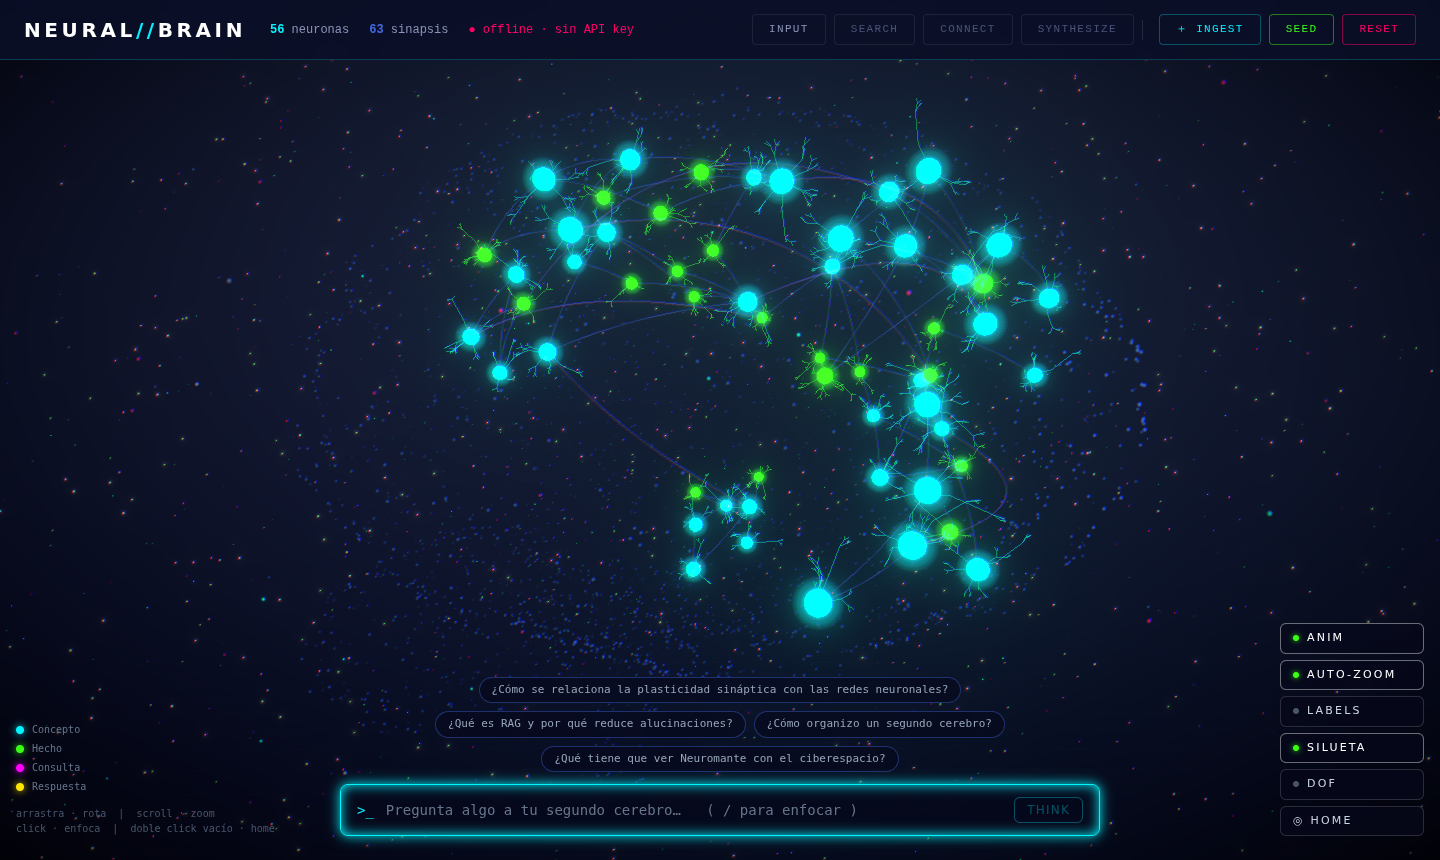
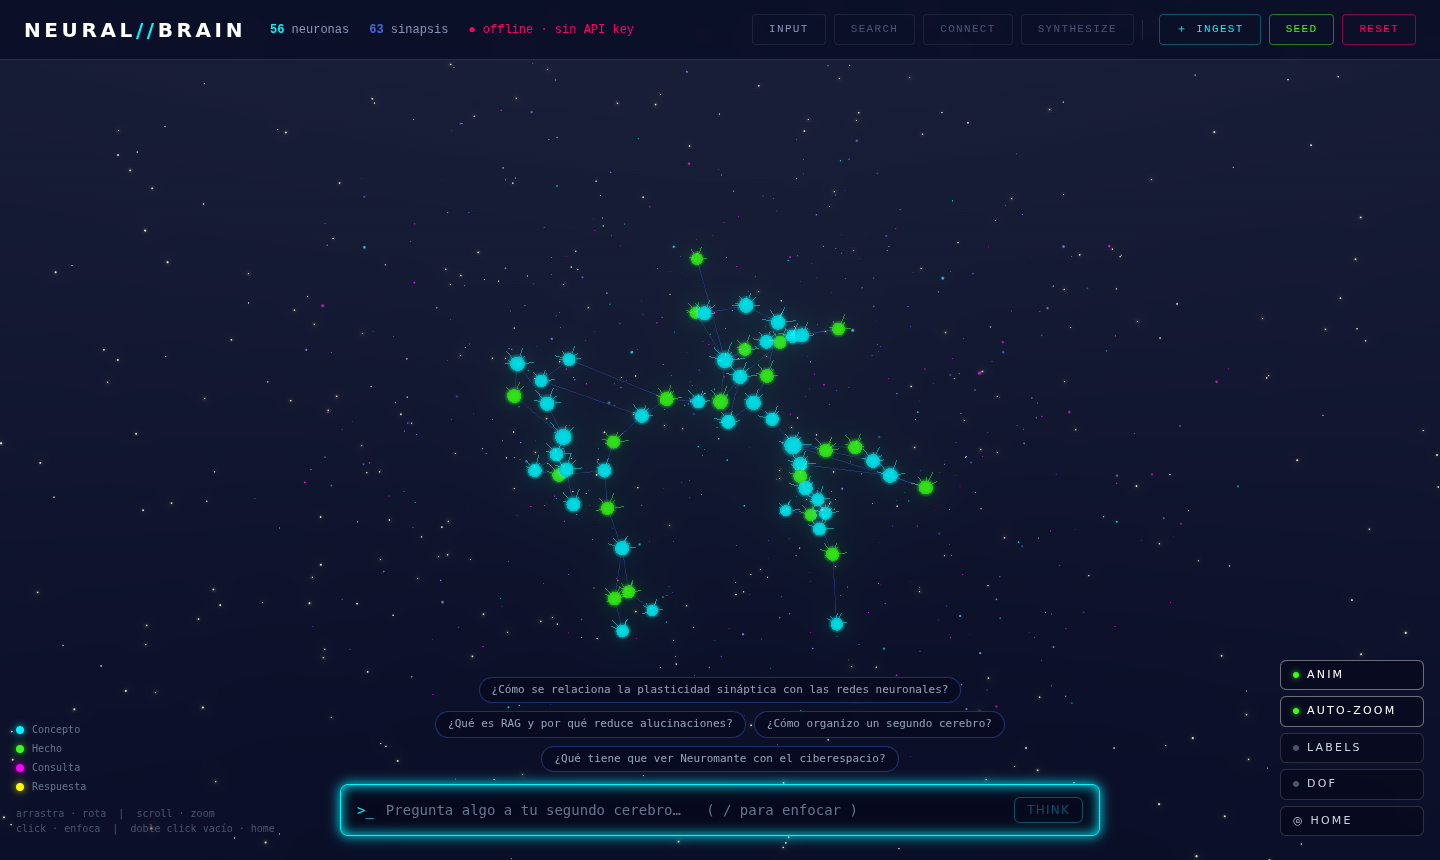
docs: describe the oval layout and the two visual states
Claude-Session: https://claude.ai/code/session_01FtnkjFZqhvsLejwne1Sczp

diff --git a/README.md b/README.md
@@ -19,7 +19,7 @@
 | 🧠 **Ingesta** | Cada nota se convierte en una **neurona**. Se enlaza por similitud semántica con las que ya existen, y cada *tag* crea (o refuerza) una **neurona-concepto** hub. |
 | 🔎 **RAG** | Una pregunta se embebe, se buscan los recuerdos más cercanos en ChromaDB y el grafo encuentra los **caminos** que los unen. Claude sintetiza la respuesta citando las fuentes `[n]`. |
 | ✨ **Visualización** | El proceso se emite por **SSE** fase a fase y el frontend lo anima: la consulta aparece, una onda escanea el cerebro, la corriente eléctrica recorre las sinapsis y la respuesta emerge en el centro. |
-| 🧬 **Forma de cerebro** | Las neuronas viven dentro de un cerebro humano: dos hemisferios, lóbulos frontal, parietal, temporal y occipital, cerebelo e hipocampo. Cada **área de conocimiento** (comunidad del grafo) ocupa una región, los conceptos están en la corteza y los hechos más adentro. |
+| 🧬 **Forma de cerebro** | Por defecto el grafo es un **cerebro aplanado visto desde arriba**: un óvalo denso en el centro y disperso en los bordes. Con `LAYOUT_MODE=brain` las neuronas viven dentro de un cerebro humano anatómico (hemisferios, lóbulos, cerebelo, hipocampo). |
 
 ![cerebro en reposo](docs/brain-idle.png)
 
@@ -71,22 +71,20 @@ cd frontend && npm install && npm run dev
 
 | Fase | Tiempo | Qué pasa en el backend | Qué ves |
 |---|---|---|---|
-| **INPUT** | 0–300 ms | llega la pregunta | la neurona magenta nace con un *burst* de partículas, escala `0 → 1.5 → 1.0` (elastic) y un destello que se apaga |
-| **SEARCH** | 300–800 ms | embedding + top‑k en ChromaDB → evento `search` | ondas concéntricas y un plano de escaneo recorren el grafo; las neuronas encontradas se encienden **progresivamente según su distancia**, con rayos de partículas desde la consulta |
-| **CONNECT** | 800–1500 ms | caminos más cortos entre los resultados → evento `connect` | las sinapsis del camino se vuelven blancas con una **corriente eléctrica** que las recorre, estelas de partículas y pulsos en **cascada** en las neuronas |
-| **SYNTHESIZE** | 1500–2000 ms | Claude genera en streaming → eventos `token` + `synthesize` | todas las neuronas activas laten sincronizadas, rayos convergen hacia la **neurona-respuesta** amarilla que emerge en el centro con una explosión suave |
+| **INPUT** | 0–300 ms | llega la pregunta | la neurona-consulta magenta (r = 0.8) aparece **encima** del grafo con un *burst* de partículas, escala `0 → 1.5 → 1.0` (elastic) y un destello que se apaga; la rotación se detiene |
+| **SEARCH** | 300–800 ms | embedding + top‑k en ChromaDB → evento `search` | 5–7 neuronas se encienden **progresivamente**, se vuelven **blancas** y crecen ×1.2–1.5; aparecen etiquetas con su **%**; haces blancos gruesos (r = 0.05) van de la consulta a cada una; el resto se oscurece al 30 %; la cámara hace **auto-zoom** al cluster y aparece una **nube azul/cian** a su alrededor |
+| **CONNECT** | 800–1500 ms | caminos más cortos entre los resultados → evento `connect` | las sinapsis entre neuronas activas se vuelven **tubos blancos gruesos** (r = 0.08) con una **corriente eléctrica** y partículas viajando; las chispas de las neuronas activas aumentan y parpadean |
+| **SYNTHESIZE** | 1500–2000 ms | Claude genera en streaming → eventos `token` + `synthesize` | la neurona más relevante se vuelve **amarilla** (#ffff00) y escala ×2; las demás activas convergen hacia ella; la nube brilla al máximo y hay una explosión suave de partículas |
 
-Cada fase empieza en *su* instante o cuando llegan los datos reales, lo que ocurra después: la animación nunca va por delante del razonamiento. Si Claude tarda, la fase CONNECT sigue viva hasta el primer token.
+Cada fase empieza en *su* instante o cuando llegan los datos reales, lo que ocurra después: la animación nunca va por delante del razonamiento. Si Claude tarda, la fase CONNECT sigue viva hasta el primer token. **2 s después** de la respuesta el cerebro vuelve al estado idle (el panel de respuesta sigue abierto) y la cámara regresa a la vista general.
 
-**Idle:** las neuronas (soma + dendritas + axón) respiran (`scale 1.0 ↔ 1.05`, ciclo 2 s), el cerebro rota lentamente, una silueta holográfica con un barrido de escaneo dibuja corteza, cerebelo y tronco encefálico, y flota polvo neuronal entre 5000 estrellas. Las fibras largas entre lóbulos o hemisferios (tipo cuerpo calloso) se arquean más y son violetas.
+**Idle:** óvalo aplanado de esferas brillantes simples (r 0.3–0.5), cian para conceptos y verde para hechos, cada una con 5–8 **chispas** cortas y un pulso sutil (`1.0 ↔ 1.03`). Sinapsis muy finas `#4169e1` al 15 % y sólo entre neuronas cercanas (< 8 unidades; las largas aparecen cuando transportan un pensamiento). Rotación lenta (0.3), polvo flotante, sin etiquetas ni efectos.
 
-**Durante la respuesta:** la cámara hace **auto-zoom** al cluster activo, cada neurona encontrada emite **anillos de pulso** y muestra una etiqueta con su **% de relevancia** respecto a la mejor coincidencia (la mejor = 100 %).
+**Interacción:** hover → glow + `scale 1.2` + etiqueta · click → vuelo suave de cámara + panel de info · arrastrar → rotar · botón derecho / dos dedos → **pan** · scroll → zoom (15–80) · doble click en el vacío → vista general · `/` o la pestaña `INPUT` enfocan el input · `Esc` cancela · `↑` recupera la última pregunta · las citas `[n]` de la respuesta son clicables.
 
-**Interacción:** hover → glow + `scale 1.2` + etiqueta · click → vuelo suave de cámara + panel de info · arrastrar → rotar · botón derecho / dos dedos → **pan** · scroll → zoom (10–100) · doble click en el vacío → vista general · `/` o la pestaña `INPUT` enfocan el input · `Esc` cancela · `↑` recupera la última pregunta · las citas `[n]` de la respuesta son clicables.
+**Panel de vista** (abajo a la derecha): `ANIM`, `AUTO-ZOOM`, `LABELS` (etiquetas de todos los conceptos), `SILUETA` (sólo en `LAYOUT_MODE=brain`), `DOF`, `HOME`. Las preferencias se recuerdan en el navegador.
 
-**Panel de vista** (abajo a la derecha): `ANIM`, `AUTO-ZOOM`, `LABELS` (etiquetas de todos los conceptos), `SILUETA`, `DOF`, `HOME`. Las preferencias se recuerdan en el navegador.
-
-**Post-procesado:** Bloom (mipmap), viñeta, aberración cromática que da un "latigazo" en cada cambio de fase (hace de *motion blur* barato) y **Depth of Field** opcional (toggle `DOF`, sigue el punto que orbita la cámara).
+**Post-procesado:** Bloom (intensidad 1.2 en idle → 2.0 mientras piensa) y **Depth of Field** opcional (toggle `DOF`, sigue el punto que orbita la cámara).
 
 ## Arquitectura
 
@@ -146,7 +144,7 @@ curl -X DELETE localhost:8000/api/reset  # borrar todo
 | `TOP_K` | `5` | Recuerdos recuperados por pregunta. |
 | `LINK_THRESHOLD` | `0.35` | Similitud mínima para crear una sinapsis al ingestar. |
 | `MAX_LINKS_PER_NODE` | `4` | Sinapsis semánticas máximas por neurona nueva. |
-| `LAYOUT_MODE` | `brain` | `brain` = forma anatómica de cerebro · `force` = force-directed 3D con clusters por tipo. |
+| `LAYOUT_MODE` | `oval` | `oval` = cerebro aplanado visto desde arriba · `brain` = forma anatómica de cerebro · `force` = force-directed 3D con clusters por tipo. |
 | `LAYOUT_ITERATIONS` | `200` | Iteraciones del layout `force`. |
 | `STORAGE_DIR` | `./storage` | Dónde se persisten ChromaDB y el grafo. |
 | `CORS_ORIGINS` | `http://localhost:5173,…` | Orígenes permitidos. |
@@ -170,7 +168,7 @@ neural-brain/
 │   └── tests/                 pytest (offline)
 ├── frontend/
 │   └── src/
-│       ├── components/        BrainCanvas · Neuron · Connection · Particles · ThinkingFX · PulseRings
+│       ├── components/        BrainCanvas · Neuron · Connection · Particles · ThinkingFX · ThinkingCloud
 │       │                      BrainShell · CameraRig · Header · QueryInput · ResponsePanel · NeuronInfo · Controls …
 │       ├── hooks/             useBrain · useThinking · useGraphData · useAutoZoom
 │       ├── utils/             api (axios + SSE) · animations · colors · particleBus

diff --git a/docs/ARCHITECTURE.md b/docs/ARCHITECTURE.md
@@ -32,7 +32,24 @@ Si al arrancar no coinciden (p. ej. un crash a mitad de ingesta) se reinician en
 
 Todo ocurre bajo un `asyncio.Lock` y en un hilo (`asyncio.to_thread`) para no bloquear el event loop.
 
-## Layout anatómico (`utils/brain_shape.py`, modo `brain`, por defecto)
+## Layout óvalo (`utils/graph_layout.py`, modo `oval`, por defecto)
+
+Cerebro aplanado visto desde arriba, denso en el centro y disperso en los bordes:
+
+1. `spring_layout` 3D (200 iteraciones, `k = 2/√n`) con un **hub de gravedad** invisible unido con peso
+   0.08 a todas las neuronas: los grupos separados se juntan en una nube redonda en vez de estirarse en
+   una cadena.
+2. Ejes principales (SVD): mayor dispersión → X, menor → Z.
+3. **Remapeo radial por rango**: cada neurona conserva su dirección y su radio pasa a `rango^0.6`
+   (0 = centro, 1 = borde), así el centro queda más denso que la periferia.
+4. Se aplasta en un óvalo `1.25 : 1 : 0.4` a escala `12·max(1, √(n/55))` y una pasada final separa
+   cualquier par de neuronas a menos de 1.2 unidades.
+
+Cada arista lleva `distance` y `near` (< 8 unidades a escala 12): la vista idle sólo dibuja las
+sinapsis cercanas. `LAYOUT_VERSION` en `graph_store.py` fuerza a recalcular posiciones guardadas cuando
+cambia un algoritmo.
+
+## Layout anatómico (`utils/brain_shape.py`, `LAYOUT_MODE=brain`)
 
 La superficie del cerebro es una función analítica `cortex_radius(dirección)`: un elipsoide con la parte
 frontal más estrecha, la base aplanada, lóbulos temporales abultados, la cisura longitudinal entre
@@ -101,6 +118,7 @@ Cada fase se programa en `max(ahora, inicio_fase_anterior + duración_mínima)`:
 | `connect` | `connect` | search + 0.5 s |
 | primer `token` | `synthesize` | connect + 0.7 s |
 | `synthesize` | `answered` | synthesize + 0.5 s |
+| — | `idle` | answered + 2 s (el panel de respuesta sigue abierto) |
 
 El estado resultante (`activeNodes`, `activeEdges`, `query`, `answer`, `phaseAt`) guarda **marcas de
 tiempo**, no progresos: cada componente calcula su animación en `useFrame` a partir de `performance.now()`.
@@ -111,17 +129,16 @@ que la neurona-respuesta emerge, para que el texto aparezca con ella.
 
 | Componente | Técnica |
 |---|---|
-| `Neuron` | esfera emisiva (`toneMapped=false` → alimenta el bloom) + halo con `neuronGlow.glsl` |
-| `Connection` | curva Bézier cuadrática combada hacia fuera; `connectionPulse.glsl` hace el shimmer y la corriente (atributo `aT` 0→1 a lo largo de la curva); en activo, una `QuadraticBezierLine` discontinua cuyo `dashOffset` fluye |
+| `Neuron` | esfera emisiva (`toneMapped=false` → alimenta el bloom) + halo con `neuronGlow.glsl` + 12 **chispas** radiales (5–8 visibles en idle, todas, más largas y parpadeando cuando está activa). Activa → blanca ×1.2–1.5; neurona de síntesis (el mejor resultado) → amarilla ×2; inactiva mientras piensa → 30 %. Etiqueta sólo en hover o si es un resultado |
+| `Connection` | idle: línea finísima `#4169e1` al 15 % (sólo las `near`), con shimmer de `connectionPulse.glsl`; pensando: las inactivas bajan al 5 %; activa: **tubo** blanco r = 0.08 con la corriente eléctrica del mismo shader (atributo `aT` = coordenada `u` del tubo) |
 | `ThinkingParticles` | pool de 4000 puntos en un único `BufferGeometry`, alimentado por `particleBus` (burst / travel por curva) |
-| `AmbientParticles` | polvo con deriva calculada en el vertex shader |
-| `ThinkingFX` | neurona-consulta, ondas (fresnel en modo *rim*), plano de escaneo, rayos, neurona-respuesta |
-| `CameraRig` | `OrbitControls` (zoom 10–100, pan, damping) + vuelos con easing (`focusOn`, `frame`, `home`) |
-| `useAutoZoom` | al empezar SEARCH encuadra las neuronas activas + la consulta; al cerrar la respuesta vuelve a HOME |
-| `PulseRings` | tres anillos escalonados que se expanden desde cada neurona activa, siempre de cara a la cámara |
-| `BrainShell` | nube de puntos de la silueta con parpadeo y una banda de escaneo; se ilumina al pensar |
-| `Neuron` (dendritas) | soma + 4–6 dendritas ramificadas + un axón largo, generadas de forma determinista por id; etiqueta sólo en hover o si es un resultado |
+| `AmbientParticles` | 500 motas con deriva en el vertex shader; sólo en idle |
+| `ThinkingFX` | neurona-consulta (r = 0.8), haces que crecen de la consulta a los resultados (tubos r = 0.05) y de las activas a la neurona de síntesis |
+| `ThinkingCloud` | "humo" azul/cian: 220 sprites aditivos muy suaves alrededor del cluster activo que giran despacio; aparece en SEARCH y alcanza su máximo en SYNTHESIZE |
+| `CameraRig` | `OrbitControls` (zoom 15–80, pan, damping, auto-rotate 0.3) + vuelos con easing (`focusOn`, `frame`, `home`) |
+| `useAutoZoom` | al empezar SEARCH vuela a `centro del cluster + (0, 5, 20)` (más lejos si no cabe); al volver a idle regresa a HOME |
+| `BrainShell` | sólo en `LAYOUT_MODE=brain`: nube de puntos de la silueta con parpadeo y una banda de escaneo |
 | `ShaderWarmup` | compila por adelantado los materiales de las animaciones para evitar tirones al primer uso |
 
-Post-procesado: `Bloom` (mipmap blur) → `ChromaticAberration` (pico en cada cambio de fase) → `Vignette`,
-con `DepthOfField` opcional que sigue el objetivo de la cámara.
+Post-procesado: `Bloom` (intensidad 1.2 en idle, 2.0 mientras piensa), con `DepthOfField` opcional que
+sigue el objetivo de la cámara.
